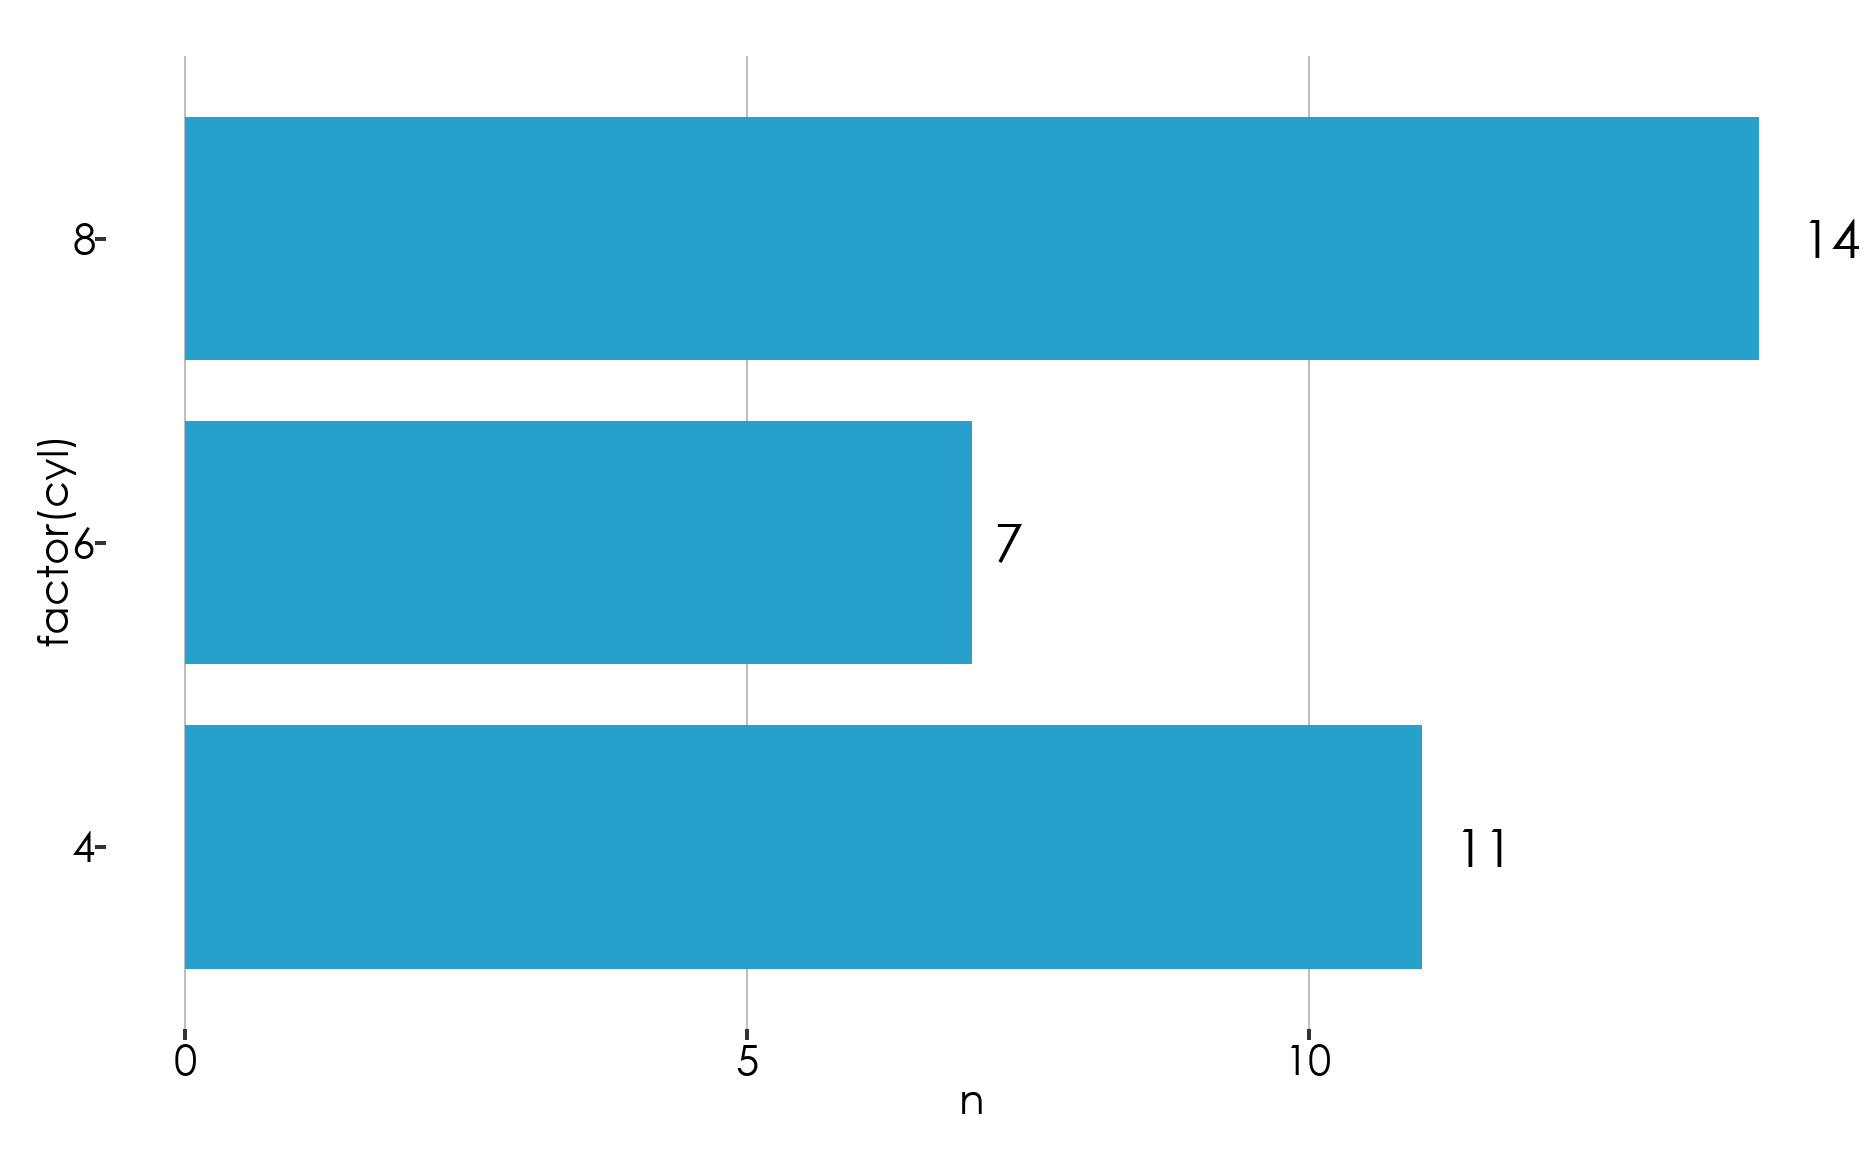
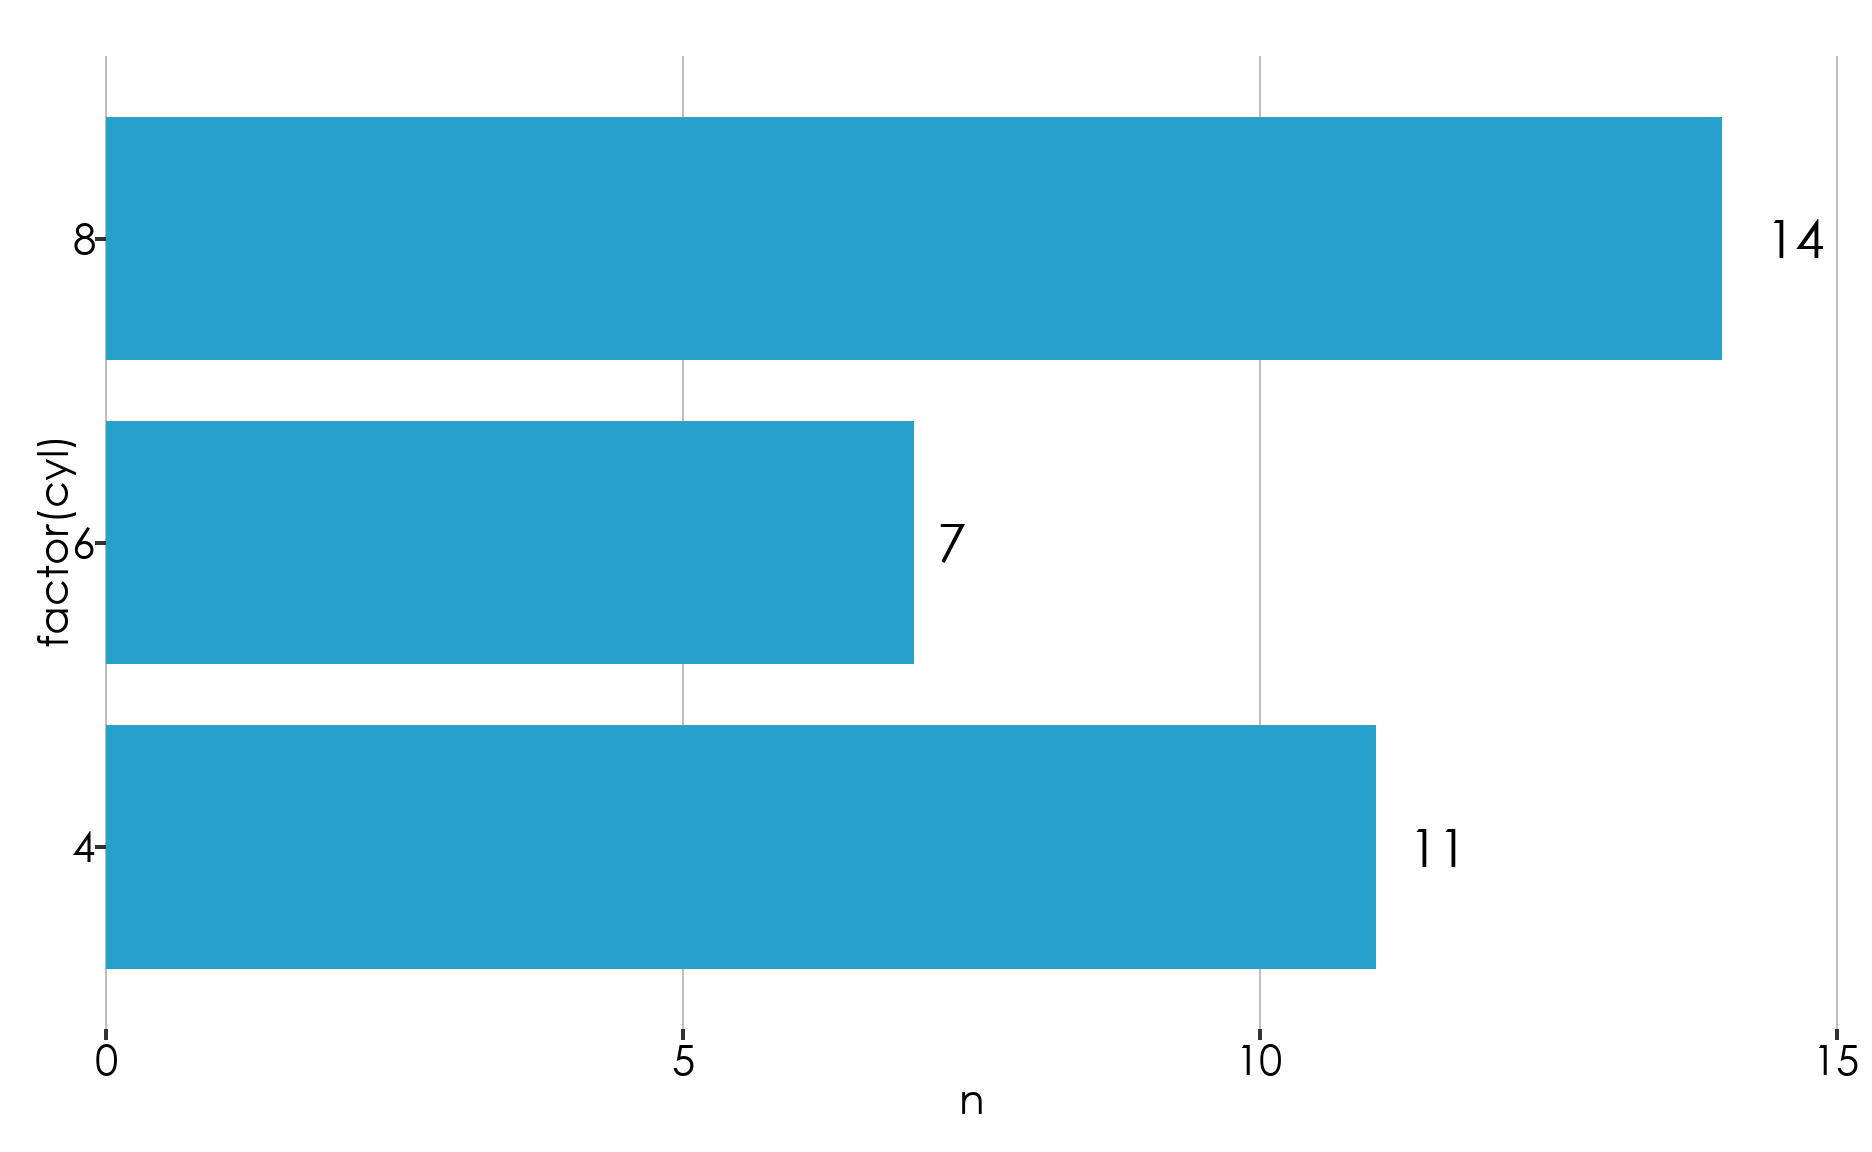
add extended labels to horizontal bar plot

diff --git a/docs/graphics-guide.html b/docs/graphics-guide.html
@@ -382,7 +382,10 @@ code span.wa { color: #60a0b0; font-weight: bold; font-style: italic; } /* Warni
 <span id="cb3-7"><a href="#cb3-7" aria-hidden="true" tabindex="-1"></a>    <span class="co"># use coord_flip() instead of coord_cartesian()</span></span>
 <span id="cb3-8"><a href="#cb3-8" aria-hidden="true" tabindex="-1"></a>  <span class="fu">coord_flip</span>(<span class="at">clip =</span> <span class="st">"off"</span>) <span class="sc">+</span></span>
 <span id="cb3-9"><a href="#cb3-9" aria-hidden="true" tabindex="-1"></a>    <span class="fu">theme</span>(<span class="at">panel.grid.major.x=</span><span class="fu">element_line</span>(<span class="at">color=</span><span class="st">"gray"</span>, <span class="at">size=</span><span class="fl">0.25</span>),</span>
-<span id="cb3-10"><a href="#cb3-10" aria-hidden="true" tabindex="-1"></a>                <span class="at">panel.grid.major.y=</span><span class="fu">element_blank</span>(),)</span></code><button title="Copy to Clipboard" class="code-copy-button"><i class="bi"></i></button></pre></div>
+<span id="cb3-10"><a href="#cb3-10" aria-hidden="true" tabindex="-1"></a>                <span class="at">panel.grid.major.y=</span><span class="fu">element_blank</span>()) <span class="sc">+</span></span>
+<span id="cb3-11"><a href="#cb3-11" aria-hidden="true" tabindex="-1"></a>  <span class="fu">scale_y_continuous</span>( <span class="at">expand =</span> <span class="fu">c</span>( <span class="dv">0</span>, <span class="dv">0</span> ),</span>
+<span id="cb3-12"><a href="#cb3-12" aria-hidden="true" tabindex="-1"></a>                      <span class="at">limits =</span> nicelimits,</span>
+<span id="cb3-13"><a href="#cb3-13" aria-hidden="true" tabindex="-1"></a>                      <span class="at">breaks =</span> scales<span class="sc">::</span><span class="fu">extended_breaks</span>(<span class="at">only.loose =</span> <span class="cn">TRUE</span>))</span></code><button title="Copy to Clipboard" class="code-copy-button"><i class="bi"></i></button></pre></div>
 <div class="cell-output-display">
 <p><img src="graphics-guide/www/images/barplot-rotated-1.png" class="img-fluid" width="624"></p>
 </div>
